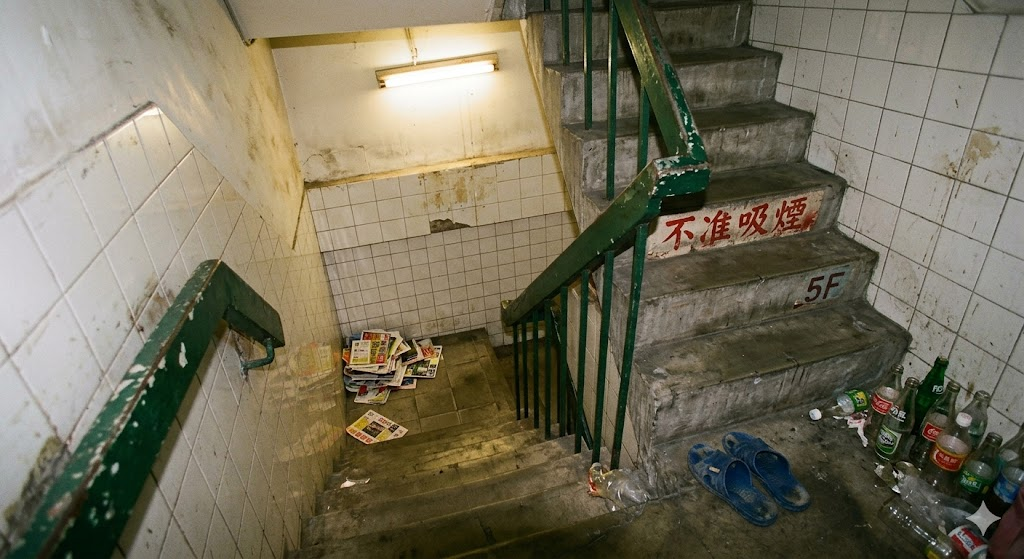
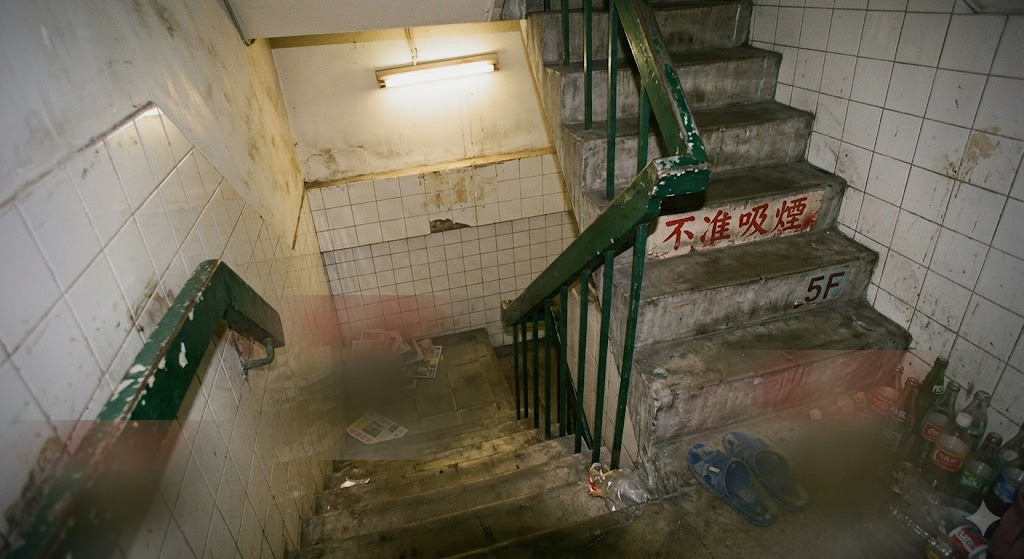
Polish pass 14: alpha-cut moms, decluttered stairwell, modal overlays
- Mom portraits: scripts/strip-mom-bg.cjs flood-fills the off-white
  watercolor wash from the corners and writes alpha=0 (with a 1px
  feather to soften the cut). Cleared ~38-43% of each frame; the
  three portraits now composite cleanly over any backdrop.
- Stairwell PNG: scripts/clean-stairwell.cjs paints over the worst
  litter (newspapers on landing, beer bottles + slippers bottom-right,
  plastic bag bottom-left) with a soft-masked, blurred concrete
  sample, plus a gentle vignette + desaturate so the patches recede.
  ApartmentScene.showStairwellTransition now prefers the painted PNG
  again (real-apartment look) and overlays the day 2-5 neighbour on
  top. Procedural draw kept as a fallback.
- Phone/TV spam: keydown-E and keydown-T now skip when event.repeat
  is true so holding the key only counts as one press. canSlack() is
  retained as a 220ms safety net for pointer spam.
- Phone/TV modal backdrop: each overlay now starts with a full-canvas
  semi-opaque rectangle that's marked .setInteractive(), so clicks
  can't leak through to the bottom buttons and the apartment dims
  visibly behind the panel.

diff --git a/src/scenes/ApartmentScene.js b/src/scenes/ApartmentScene.js
@@ -167,9 +167,11 @@ export default class ApartmentScene extends Phaser.Scene {
       this.truckRecording.play();
     }
 
-    // Input
-    this.input.keyboard.on('keydown-E', () => this.scrollPhone());
-    this.input.keyboard.on('keydown-T', () => this.toggleTv());
+    // Input — ignore browser's auto-repeat so holding E or T can't farm slack.
+    // Each physical press = one bump; release before pressing again. canSlack()
+    // is still in place as a 220ms safety net for pointerdown spam.
+    this.input.keyboard.on('keydown-E', (e) => { if (e && e.repeat) return; this.scrollPhone(); });
+    this.input.keyboard.on('keydown-T', (e) => { if (e && e.repeat) return; this.toggleTv(); });
     this.input.keyboard.on('keydown-ENTER', () => this.leaveForTruck());
     this.input.keyboard.on('keydown-ESC', () => {
       if (this.left) return;
@@ -350,6 +352,13 @@ export default class ApartmentScene extends Phaser.Scene {
     const cx = w / 2, cy = h / 2;
     const pw = 200, ph = 340;
     const c = this.add.container(cx, cy).setDepth(800);
+    // Modal backdrop — full-screen dim child positioned to span the canvas in
+    // local coords (offset by -cx,-cy from the centred container). Its
+    // setInteractive() swallows clicks so the bottom buttons / wall objects
+    // can't be triggered through the overlay.
+    const backdrop = this.add.rectangle(-cx, -cy, w, h, 0x000000, 0.55).setOrigin(0)
+      .setInteractive();
+    c.add(backdrop);
     const frame = this.add.rectangle(0, 0, pw, ph, 0x0a0a14).setStrokeStyle(4, 0xe8b96a, 0.95);
     const screen = this.add.rectangle(0, 6, pw - 22, ph - 60, 0x141828);
     const notch = this.add.rectangle(0, -ph / 2 + 14, 60, 14, 0x000000);
@@ -398,6 +407,11 @@ export default class ApartmentScene extends Phaser.Scene {
     const cx = w / 2, cy = h / 2 - 10;
     const tw = 380, th = 240;
     const c = this.add.container(cx, cy).setDepth(800);
+    // Modal backdrop matching the phone overlay — dims the room + blocks
+    // input from leaking through to the buttons behind.
+    const backdrop = this.add.rectangle(-cx, -cy, w, h, 0x000000, 0.55).setOrigin(0)
+      .setInteractive();
+    c.add(backdrop);
     const cabinet = this.add.rectangle(0, 30, tw + 28, th + 70, 0x2a1a18).setStrokeStyle(2, 0x1a0a08);
     const screen = this.add.rectangle(0, 0, tw, th, 0x141a22).setStrokeStyle(3, 0x0a0a14);
     const knob1 = this.add.circle(tw / 2 - 14, th / 2 + 22, 6, 0x4a3020).setStrokeStyle(1, 0xe8b96a, 0.6);
@@ -465,70 +479,20 @@ export default class ApartmentScene extends Phaser.Scene {
   }
 
   // Taipei old-公寓 stairwell vignette before the player drops to the street.
-  // Procedural draw only now — the cluttered painted PNG was retired in favour
-  // of this cleaner version: bare concrete walls, mosaic steps, handrail, no
-  // scooter or mailbox piles. Day 2-5 add a neighbour encounter on the steps.
+  // Prefers the painted PNG (real-apartment look, decluttered by
+  // scripts/clean-stairwell.cjs); falls back to a procedural draw if the
+  // asset is missing. Day 2-5 always overlay a neighbour with a speech
+  // bubble on top of whichever backdrop is used.
   showStairwellTransition(onDone) {
     const w = GAME_WIDTH, h = GAME_HEIGHT;
     const c = this.add.container(0, 0).setDepth(2000);
-    // Block out the whole frame
-    c.add(this.add.rectangle(0, 0, w, h, 0x0a0a0e).setOrigin(0));
-    // Walls — clean concrete, no stains/cracks (per "沒雜物" brief)
-    c.add(this.add.rectangle(0, 0, w, h, 0x2a2820).setOrigin(0));
-    c.add(this.add.rectangle(0, 0, w * 0.28, h, 0x1a1812).setOrigin(0));
-    c.add(this.add.rectangle(w * 0.72, 0, w * 0.28, h, 0x1a1812).setOrigin(0));
-    // A single subtle horizontal trim line on each wall — gives the concrete
-    // a stairwell feel without piling on grime.
-    c.add(this.add.line(0, 0, 0, h * 0.35, w * 0.28, h * 0.35, 0x3a3028, 0.6).setOrigin(0).setLineWidth(1));
-    c.add(this.add.line(0, 0, w * 0.72, h * 0.35, w, h * 0.35, 0x3a3028, 0.6).setOrigin(0).setLineWidth(1));
-    // Ceiling tube light (flickers briefly)
-    const ceil = this.add.rectangle(w / 2, 28, 200, 14, 0x3a3a30).setStrokeStyle(1, 0x1a1a14);
-    const tube = this.add.rectangle(w / 2, 28, 180, 6, 0xfff4cc, 0.95);
-    c.add(ceil); c.add(tube);
-    this.tweens.add({ targets: tube, alpha: 0.6, duration: 110, yoyo: true, repeat: 4 });
-    // Light cone
-    const cone = this.add.triangle(w / 2, 35, -180, 0, 180, 0, 0, h, 0xfff4cc, 0.07).setOrigin(0.5, 0);
-    c.add(cone);
-    // Steps descending — mosaic-tile front face + tread, perspective-narrowing
-    // toward a vanishing point at (w/2, h*0.55).
-    const vx = w / 2, vy = h * 0.55;
-    const stepCount = 9;
-    for (let i = 0; i < stepCount; i++) {
-      const t = i / stepCount;
-      const tn = (i + 1) / stepCount;
-      const y0 = vy + (h - vy) * Math.pow(t, 1.4);
-      const y1 = vy + (h - vy) * Math.pow(tn, 1.4);
-      const hw0 = (w * 0.5 - 60) * Math.pow(tn, 0.85) + 40;
-      const hw1 = (w * 0.5 - 60) * Math.pow(t, 0.85) + 40;
-      const tread = this.add.polygon(0, 0, [
-        vx - hw1, y0, vx + hw1, y0,
-        vx + hw0, y1, vx - hw0, y1,
-      ], 0x9a8a70, 0.95).setOrigin(0);
-      tread.setStrokeStyle(1, 0x4a3a28, 0.8);
-      c.add(tread);
-      const riser = this.add.polygon(0, 0, [
-        vx - hw1, y0 - 6, vx + hw1, y0 - 6,
-        vx + hw1, y0, vx - hw1, y0,
-      ], 0x3a2a22, 0.95).setOrigin(0);
-      c.add(riser);
-      const dots = 8 - i;
-      for (let d = -dots; d <= dots; d++) {
-        const dx = vx + (hw0 * d / (dots + 1));
-        const dy = (y0 + y1) / 2;
-        c.add(this.add.circle(dx, dy, 1.5 + (1 - t) * 1.5, 0x6a5a40, 0.55));
-      }
-    }
-    // Both-side handrails — slim wood rails along the descent
-    for (const side of [-1, 1]) {
-      for (let i = 0; i < 3; i++) {
-        const tn = (i + 0.5) / 3;
-        const x = w / 2 + side * ((w * 0.5 - 60) * Math.pow(tn, 0.85) + 30);
-        const y0 = vy + (h - vy) * Math.pow(tn, 1.4);
-        c.add(this.add.rectangle(x, y0, 4, 50, 0x6a4a30).setOrigin(0.5, 1));
-      }
-      const railX1 = w / 2 + side * 60;
-      const railX2 = side > 0 ? w - 30 : 30;
-      c.add(this.add.line(0, 0, railX1, vy + 6, railX2, h - 30, 0x8a5a30, 0.95).setOrigin(0).setLineWidth(4));
+
+    if (this.textures.exists('bg-stairwell')) {
+      // Painted backdrop + slight dim so any residual cleanup smudges fade.
+      c.add(this.add.image(w / 2, h / 2, 'bg-stairwell').setDisplaySize(w, h));
+      c.add(this.add.rectangle(0, 0, w, h, 0x0a0810, 0.22).setOrigin(0));
+    } else {
+      this.drawProceduralStairwell(c, w, h);
     }
 
     // Day 2-5: a neighbour standing on the upper step says hi. Day 1 keeps
@@ -568,6 +532,41 @@ export default class ApartmentScene extends Phaser.Scene {
         },
       });
     });
+  }
+
+  drawProceduralStairwell(c, w, h) {
+    c.add(this.add.rectangle(0, 0, w, h, 0x0a0a0e).setOrigin(0));
+    c.add(this.add.rectangle(0, 0, w, h, 0x2a2820).setOrigin(0));
+    c.add(this.add.rectangle(0, 0, w * 0.28, h, 0x1a1812).setOrigin(0));
+    c.add(this.add.rectangle(w * 0.72, 0, w * 0.28, h, 0x1a1812).setOrigin(0));
+    const ceil = this.add.rectangle(w / 2, 28, 200, 14, 0x3a3a30).setStrokeStyle(1, 0x1a1a14);
+    const tube = this.add.rectangle(w / 2, 28, 180, 6, 0xfff4cc, 0.95);
+    c.add(ceil); c.add(tube);
+    this.tweens.add({ targets: tube, alpha: 0.6, duration: 110, yoyo: true, repeat: 4 });
+    c.add(this.add.triangle(w / 2, 35, -180, 0, 180, 0, 0, h, 0xfff4cc, 0.07).setOrigin(0.5, 0));
+    const vx = w / 2, vy = h * 0.55;
+    const stepCount = 9;
+    for (let i = 0; i < stepCount; i++) {
+      const t = i / stepCount;
+      const tn = (i + 1) / stepCount;
+      const y0 = vy + (h - vy) * Math.pow(t, 1.4);
+      const y1 = vy + (h - vy) * Math.pow(tn, 1.4);
+      const hw0 = (w * 0.5 - 60) * Math.pow(tn, 0.85) + 40;
+      const hw1 = (w * 0.5 - 60) * Math.pow(t, 0.85) + 40;
+      c.add(this.add.polygon(0, 0, [
+        vx - hw1, y0, vx + hw1, y0,
+        vx + hw0, y1, vx - hw0, y1,
+      ], 0x9a8a70, 0.95).setOrigin(0).setStrokeStyle(1, 0x4a3a28, 0.8));
+      c.add(this.add.polygon(0, 0, [
+        vx - hw1, y0 - 6, vx + hw1, y0 - 6,
+        vx + hw1, y0, vx - hw1, y0,
+      ], 0x3a2a22, 0.95).setOrigin(0));
+    }
+    for (const side of [-1, 1]) {
+      const railX1 = w / 2 + side * 60;
+      const railX2 = side > 0 ? w - 30 : 30;
+      c.add(this.add.line(0, 0, railX1, vy + 6, railX2, h - 30, 0x8a5a30, 0.95).setOrigin(0).setLineWidth(4));
+    }
   }
 
   // Adds a small neighbour silhouette + speech bubble to the stairwell
